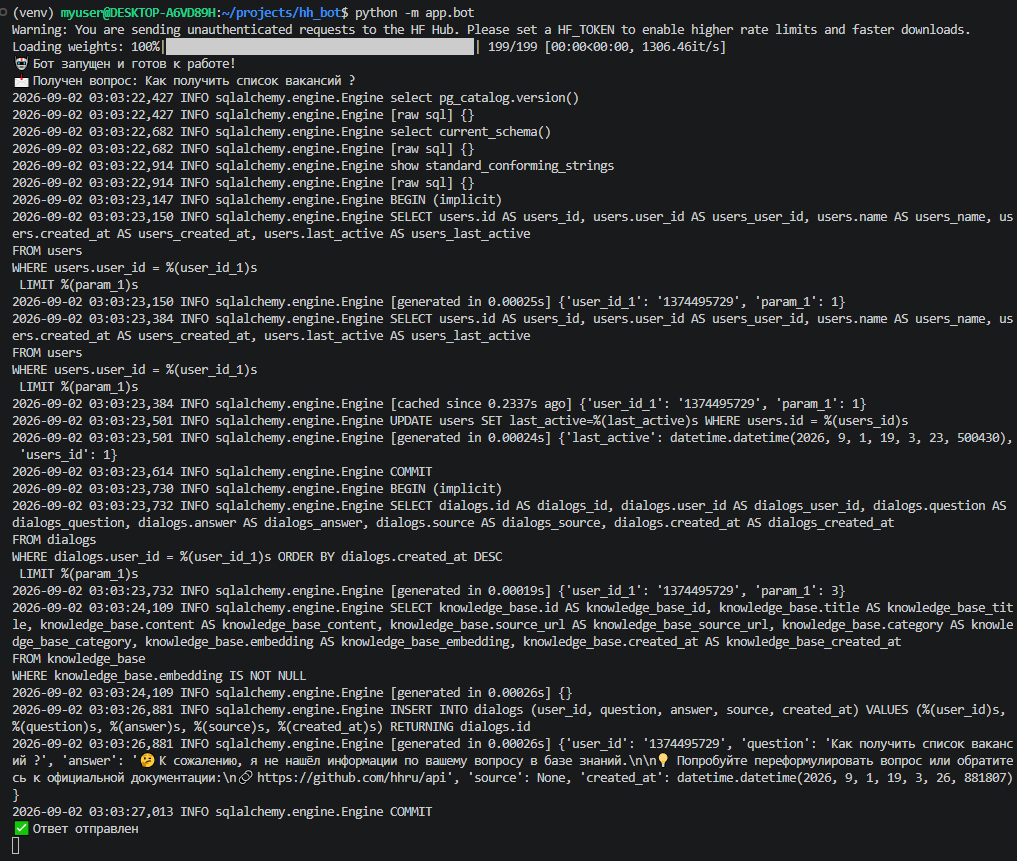
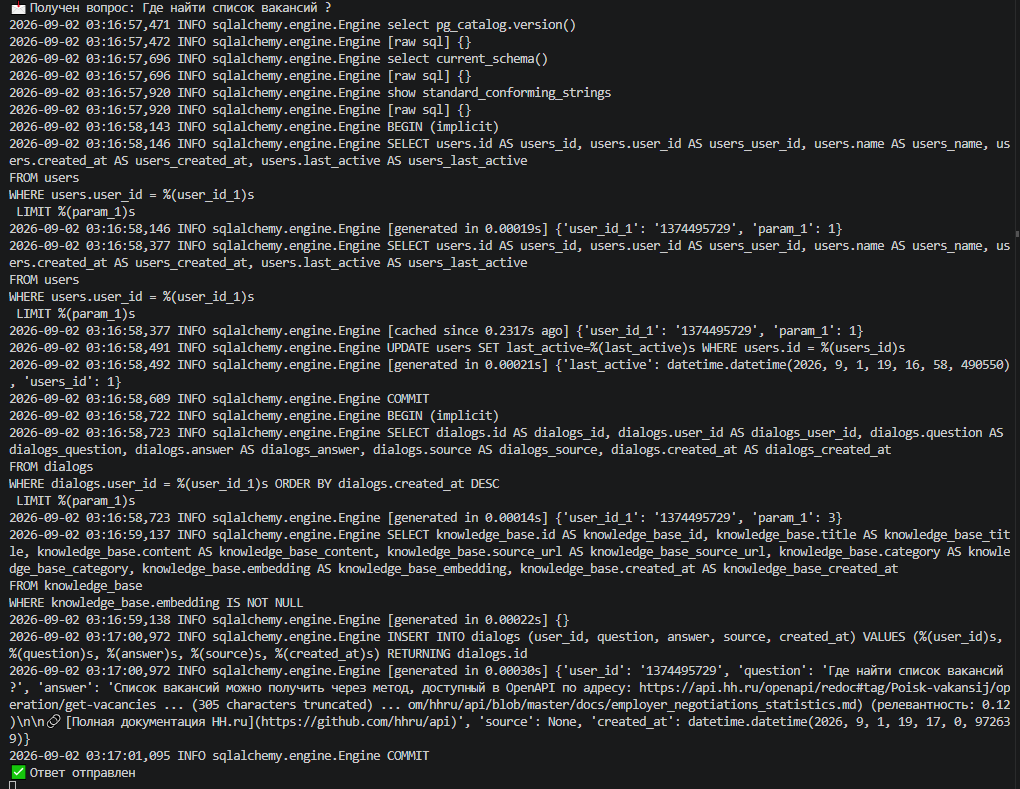
fix: adjust min_score to 0.1, improve RAG responses

diff --git a/app/services/rag.py b/app/services/rag.py
@@ -12,7 +12,7 @@ def cosine_similarity(a, b):
     return np.dot(a, b) / (np.linalg.norm(a) * np.linalg.norm(b))
 
 
-def search_knowledge_base(db: Session, query: str, limit: int = 10, min_score: float = 0.3) -> tuple:
+def search_knowledge_base(db: Session, query: str, limit: int = 10, min_score: float = 0.1) -> tuple:
     query_embedding = get_embedding(query)
     items = db.query(models.KnowledgeBase).filter(
         models.KnowledgeBase.embedding.isnot(None)
